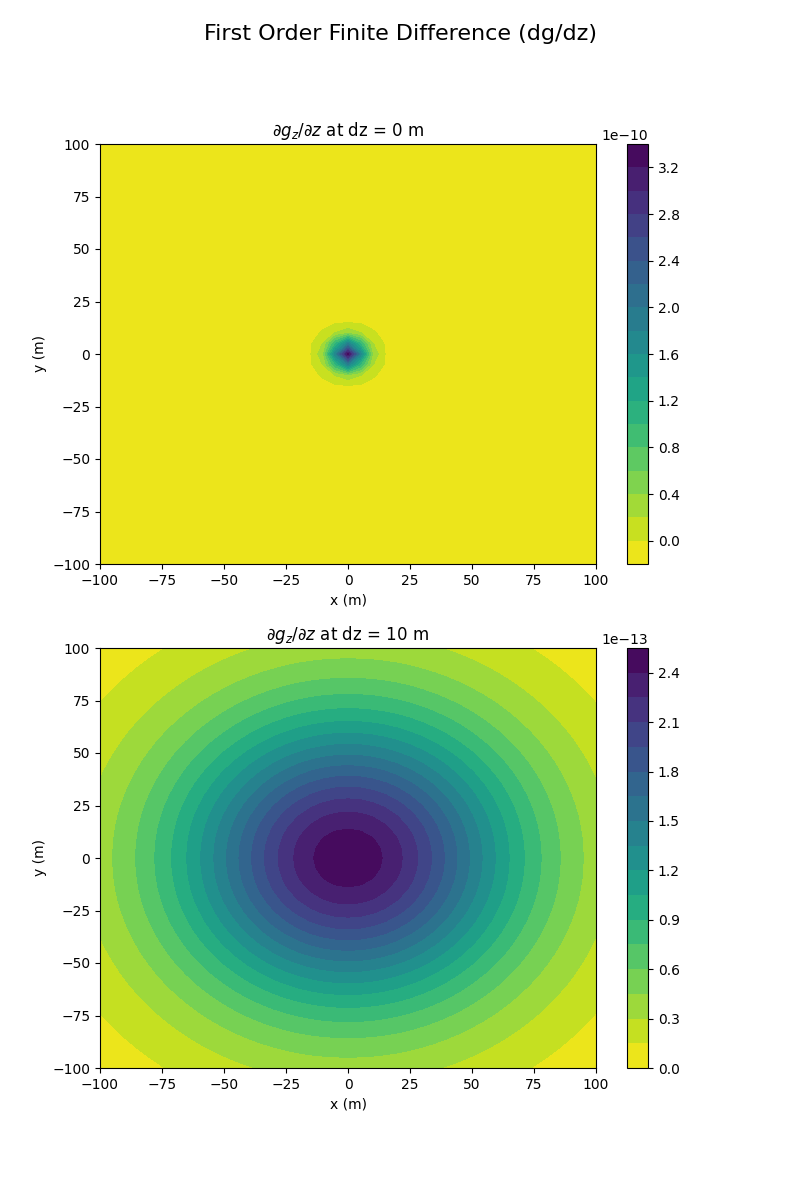
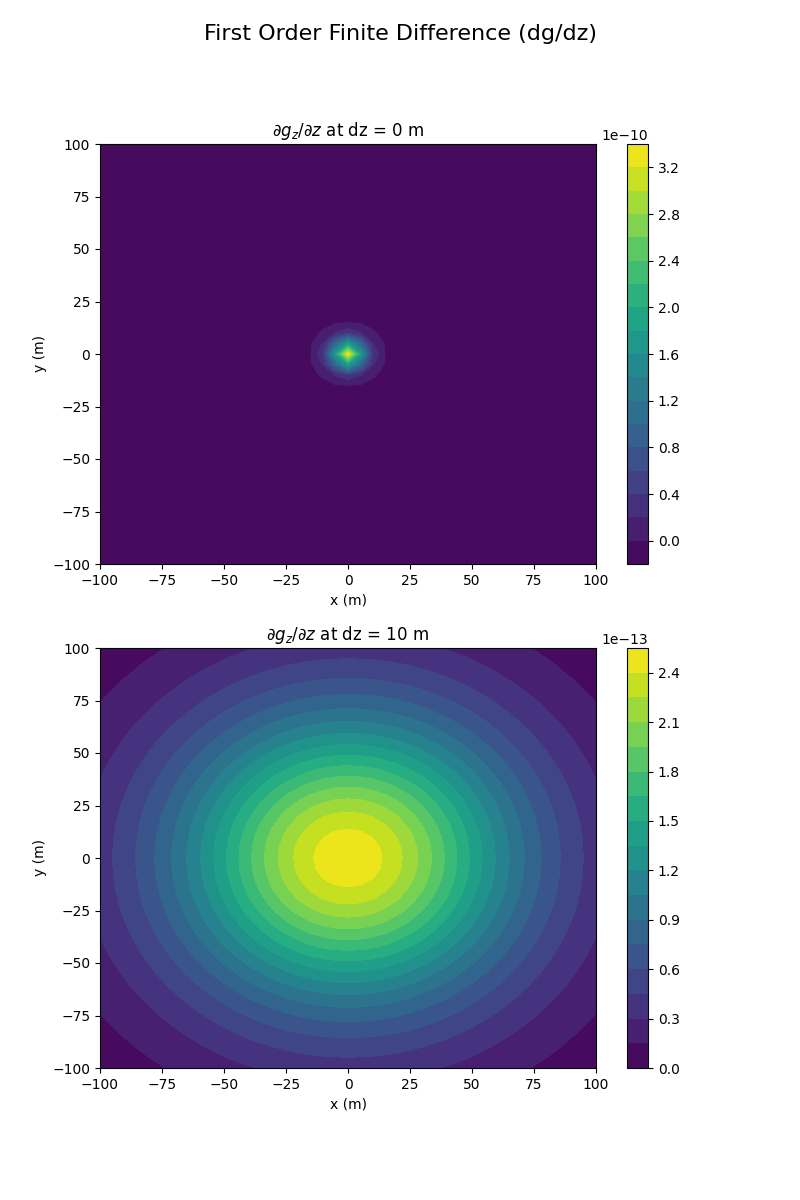
Format fix on 2x2 grid plot

diff --git a/examples/driver_mass_anomaly.py b/examples/driver_mass_anomaly.py
@@ -190,14 +190,14 @@ d2gdz2_10_laplace = laplace(gz[:, :, 1], dx, dy)
 fig, axes = plt.subplots(2, 1, figsize=(8, 12))
 
 ax = axes[0]
-c = ax.contourf(x_5, y_5, dgdz_0, levels=20, cmap='viridis_r')
+c = ax.contourf(x_5, y_5, dgdz_0, levels=20, cmap='viridis')
 ax.set_title(r'$\partial g_z / \partial z$ at dz = 0 m')
 ax.set_xlabel('x (m)')
 ax.set_ylabel('y (m)')
 fig.colorbar(c, ax=ax)
 
 ax = axes[1]
-c = ax.contourf(x_5, y_5, dgdz_10, levels=20, cmap='viridis_r')
+c = ax.contourf(x_5, y_5, dgdz_10, levels=20, cmap='viridis')
 ax.set_title(r'$\partial g_z / \partial z$ at dz = 10 m')
 ax.set_xlabel('x (m)')
 ax.set_ylabel('y (m)')
